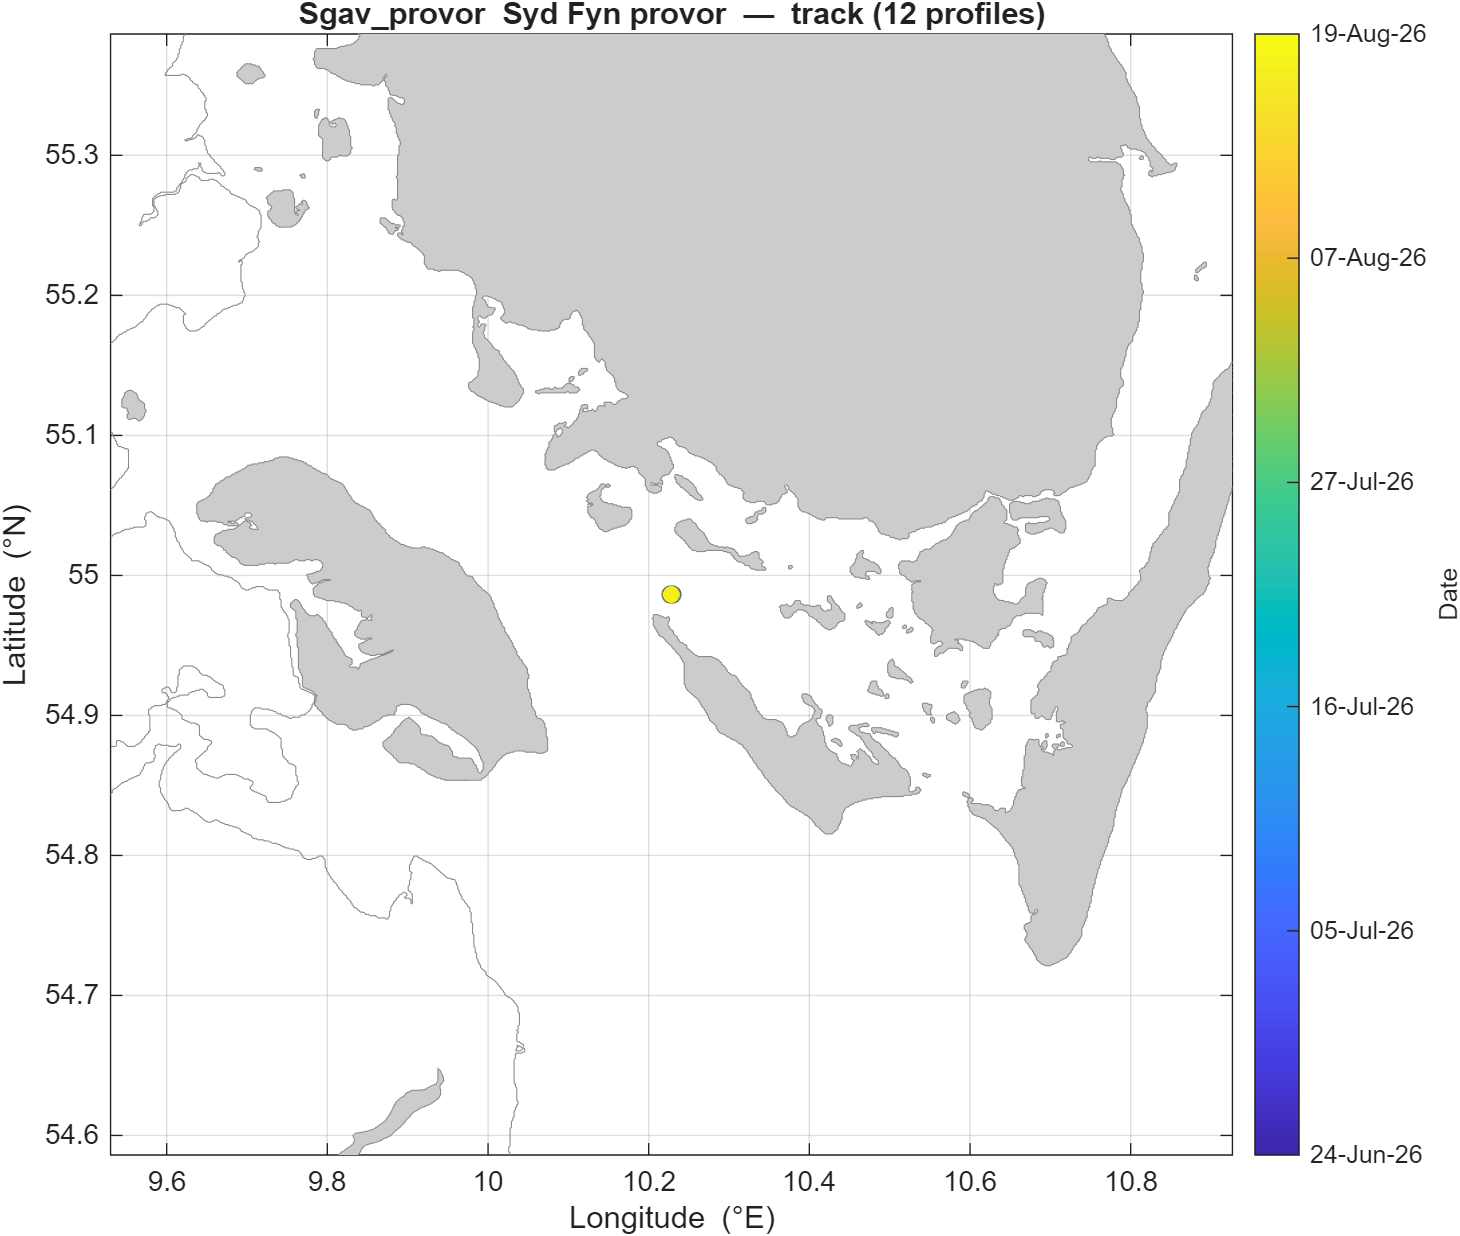
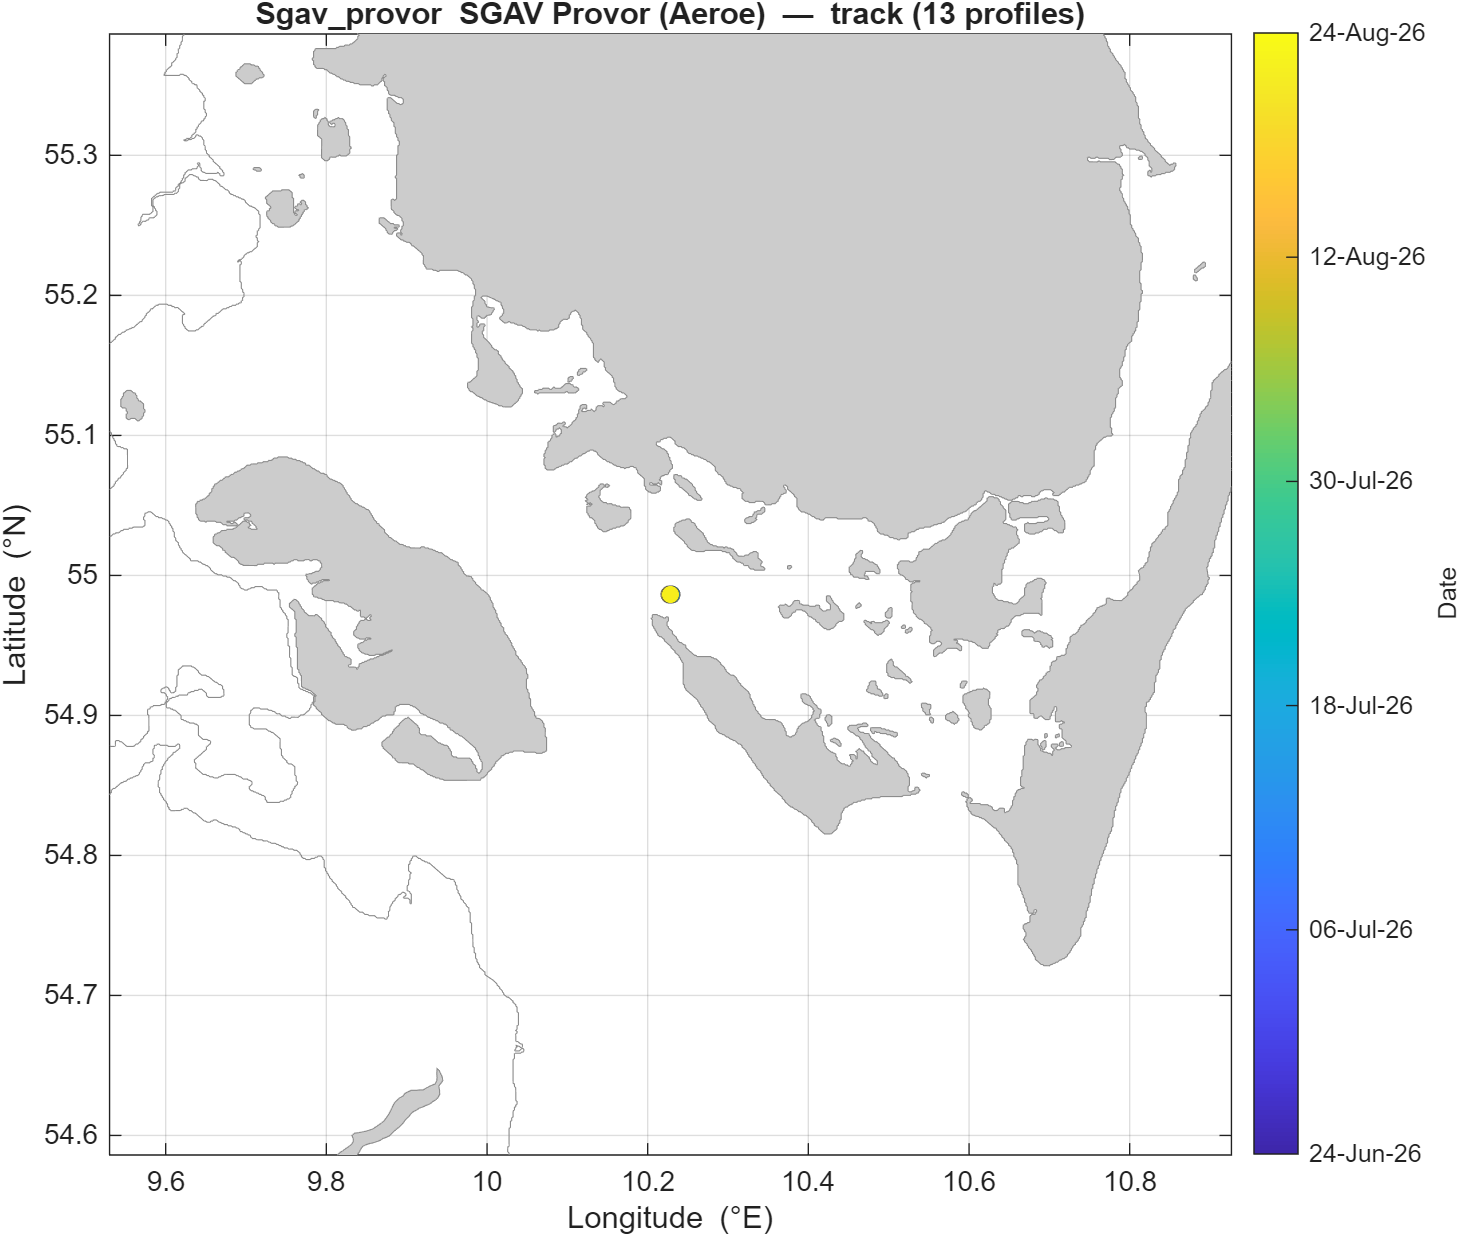
New data

diff --git a/data.js b/data.js
@@ -15,7 +15,7 @@
 //   graphs        [{label, src}, ...] figures for the fold-out
 //   notes         free text from floats_config.csv
 
-const floatUpdated = "2026-08-25 12:54";
+const floatUpdated = "2026-08-25 13:26";
 
 const floatData = [
   {
@@ -1971,6 +1971,10 @@ const floatData = [
       {
         "label": "Profile 076  (2026-08-20)",
         "src": "assets/plots/2903998/2903998_profile_076_2026-08-20.png"
+      },
+      {
+        "label": "Profile 077  (2026-08-25)",
+        "src": "assets/plots/2903998/2903998_profile_077_2026-08-25.png"
       }
     ],
     "notes": ""
@@ -2851,15 +2855,15 @@ const floatData = [
     "region": "denmark",
     "status": "active",
     "status_note": "",
-    "latitude": 54.9867,
-    "longitude": 10.2279,
-    "location": "54.987° N, 10.228° E",
+    "latitude": 54.9863,
+    "longitude": 10.2286,
+    "location": "54.986° N, 10.229° E",
     "deployment_date": "2026-06-24",
-    "last_surface": "2026-08-19 01:55",
-    "days_since": 6.5,
-    "next_surface": "2026-08-24 01:50",
+    "last_surface": "2026-08-24 02:34",
+    "days_since": 1.5,
+    "next_surface": "2026-08-29 02:36",
     "next_surface_source": "median cycle interval",
-    "n_profiles": 12,
+    "n_profiles": 13,
     "track": [
       [
         54.9864,
@@ -2908,6 +2912,10 @@ const floatData = [
       [
         54.9867,
         10.2279
+      ],
+      [
+        54.9863,
+        10.2286
       ]
     ],
     "trajectory": "assets/plots/Sgav_provor/Sgav_provor_map.png",
@@ -2919,6 +2927,10 @@ const floatData = [
       {
         "label": "Profile 012  (2026-08-19)",
         "src": "assets/plots/Sgav_provor/Sgav_provor_profile_012_2026-08-19.png"
+      },
+      {
+        "label": "Profile 013  (2026-08-24)",
+        "src": "assets/plots/Sgav_provor/Sgav_provor_profile_013_2026-08-24.png"
       }
     ],
     "notes": "BGC+RAMSES+SUNA; needs external SGAV_provor tree beside pipeline (FTP+APMTDecoder); set active=true to re-run"
